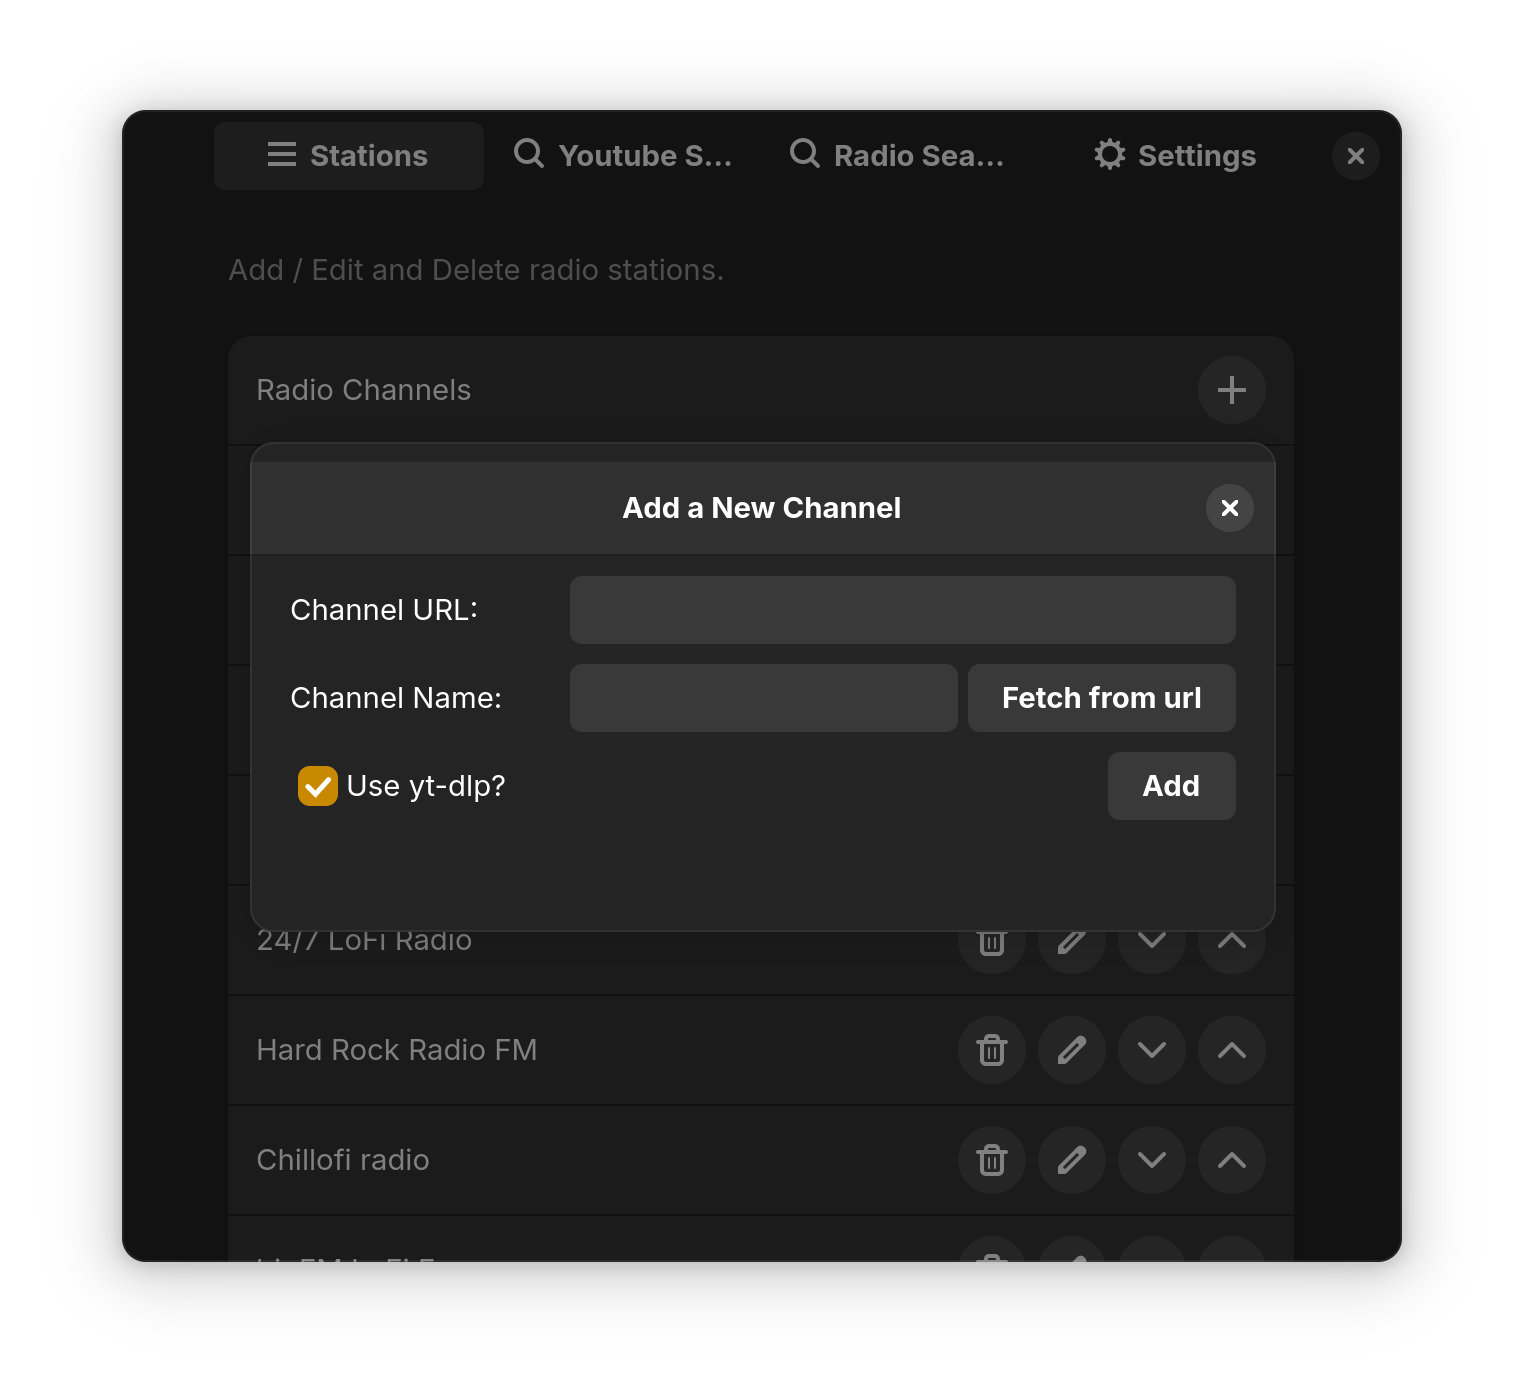
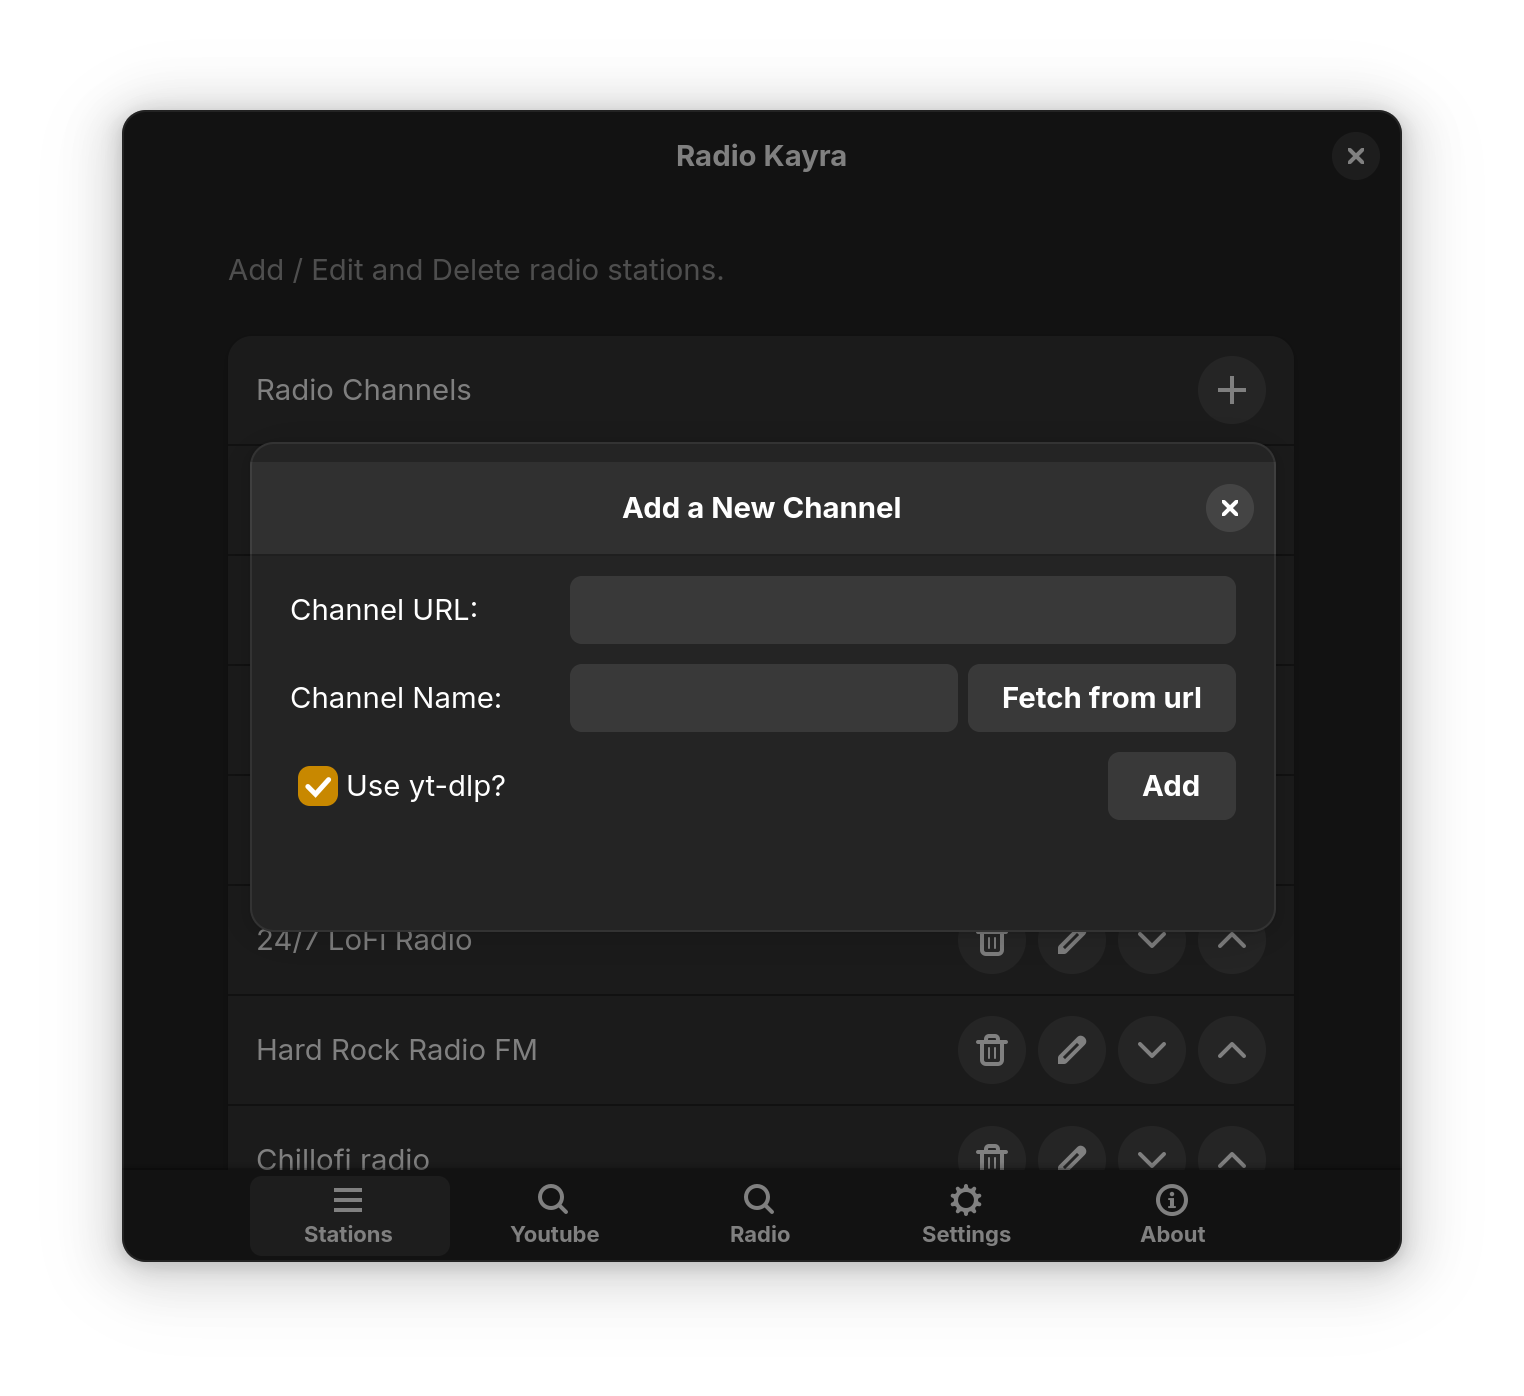
File renaming

diff --git a/prefsaboutspage.js b/prefsaboutspage.js
@@ -1,0 +1,78 @@
+import Adw from "gi://Adw";
+import Gtk from "gi://Gtk";
+
+import * as Constants from "./constants.js";
+import { gettext as _, } from "resource:///org/gnome/Shell/Extensions/js/extensions/prefs.js";
+
+export const AboutPageHandler = class AboutPageHandler {
+    constructor(kayraPrefs) {
+        this._kayraPrefs = kayraPrefs;
+        this._window = kayraPrefs._window; 
+        this._schema = this._kayraPrefs.getSettings();     
+    }
+    clear() { 
+        this._settingGroup = null;
+        this._settingsPage = null;  
+        this._rows = null;
+    }
+    createPage() {
+        this._aboutPage = new Adw.PreferencesPage();
+        this._aboutPage.title = "About";        
+        this._aboutPage.icon_name = Constants.ICON_ABOUT;
+    
+        this._window.add(this._aboutPage);
+        this._rows = [];        
+                
+        this.about = new Adw.PreferencesGroup({ title: _('Radio Kayra v2.0\nA foss hobby project by Ayhan Avcı (2024-2025)'), description: _("Mid clicking the radio icon toggles play / stop.\nDon't forget to install yt-dlp &amp; gstreamer. Links at the bottom. Enjoy!")});
+        this._aboutPage.add(this.about);        
+                                                       
+        this._urlsGroup = new Adw.PreferencesGroup({ title: _('Links')});        
+
+        let row = new Adw.ActionRow();
+        row.title = _("Project");
+        let newLink = new Gtk.LinkButton({
+          valign: Gtk.Align.CENTER,
+          label: "https://github.com/ayhanavci/radiokayra",
+          focusable: 1,
+          uri: "https://github.com/ayhanavci/radiokayra"
+        });        
+        row.add_suffix(newLink);        
+        this._urlsGroup.add(row); 
+        
+        row = new Adw.ActionRow();
+        row.title = _("Extension");
+        newLink = new Gtk.LinkButton({
+          valign: Gtk.Align.CENTER,
+          label: "https://extensions.gnome.org/extension/7649/radio-kayra/",
+          focusable: 1,
+          uri: "https://extensions.gnome.org/extension/7649/radio-kayra/"
+        });        
+        row.add_suffix(newLink);        
+        this._urlsGroup.add(row); 
+
+        row = new Adw.ActionRow();
+        row.title = _("Yt-dlp");
+        newLink = new Gtk.LinkButton({
+          valign: Gtk.Align.CENTER,
+          label: "https://github.com/yt-dlp/yt-dlp/wiki/Installation",
+          focusable: 1,
+          uri: "https://github.com/yt-dlp/yt-dlp/wiki/Installation"
+        });        
+        row.add_suffix(newLink);        
+        this._urlsGroup.add(row); 
+        
+        row = new Adw.ActionRow();
+        row.title = _("GStreamer");
+        newLink = new Gtk.LinkButton({
+          valign: Gtk.Align.CENTER,
+          label: "https://gstreamer.freedesktop.org/download/#linux",
+          focusable: 1,
+          uri: "https://gstreamer.freedesktop.org/download/#linux"
+        });        
+        row.add_suffix(newLink);        
+        this._urlsGroup.add(row);         
+
+        this._aboutPage.add(this._urlsGroup);
+      }           
+ 
+}

diff --git a/prefssettingsspage.js b/prefssettingsspage.js
@@ -17,17 +17,14 @@ export const SettingsPageHandler = class SettingsPageHandler {
         this._settingsPage = null;  
         this._rows = null;
     }
-    createSettingsPage() {
+    createPage() {
         this._settingsPage = new Adw.PreferencesPage();
         this._settingsPage.title = "Settings";        
         this._settingsPage.icon_name = Constants.ICON_SETTINGS;
     
         this._window.add(this._settingsPage);
         this._rows = [];        
-                
-        this.asd = new Adw.PreferencesGroup({ title: _('Radio Kayra v2.0. A foss hobby project by Ayhan Avcı (2024-2025)'), description: _("Mid click toggles play / stop.\nDon't forget to install yt-dlp &amp; gstreamer. Links at the bottom. Enjoy!")});
-        this._settingsPage.add(this.asd);        
-        
+
         //Settings
         this._settingsGroup = new Adw.PreferencesGroup();
         
@@ -82,53 +79,7 @@ export const SettingsPageHandler = class SettingsPageHandler {
 
         this._settingsPage.add(this._settingsGroup);                
 
-        this._urlsGroup = new Adw.PreferencesGroup({ title: _('Links')});        
-
-        let row = new Adw.ActionRow();
-        row.title = _("Project");
-        let newLink = new Gtk.LinkButton({
-          valign: Gtk.Align.CENTER,
-          label: "https://github.com/ayhanavci/radiokayra",
-          focusable: 1,
-          uri: "https://github.com/ayhanavci/radiokayra"
-        });        
-        row.add_suffix(newLink);        
-        this._urlsGroup.add(row); 
         
-        row = new Adw.ActionRow();
-        row.title = _("Extension");
-        newLink = new Gtk.LinkButton({
-          valign: Gtk.Align.CENTER,
-          label: "https://extensions.gnome.org/extension/7649/radio-kayra/",
-          focusable: 1,
-          uri: "https://extensions.gnome.org/extension/7649/radio-kayra/"
-        });        
-        row.add_suffix(newLink);        
-        this._urlsGroup.add(row); 
-
-        row = new Adw.ActionRow();
-        row.title = _("Yt-dlp");
-        newLink = new Gtk.LinkButton({
-          valign: Gtk.Align.CENTER,
-          label: "https://github.com/yt-dlp/yt-dlp/wiki/Installation",
-          focusable: 1,
-          uri: "https://github.com/yt-dlp/yt-dlp/wiki/Installation"
-        });        
-        row.add_suffix(newLink);        
-        this._urlsGroup.add(row); 
-        
-        row = new Adw.ActionRow();
-        row.title = _("GStreamer");
-        newLink = new Gtk.LinkButton({
-          valign: Gtk.Align.CENTER,
-          label: "https://gstreamer.freedesktop.org/download/#linux",
-          focusable: 1,
-          uri: "https://gstreamer.freedesktop.org/download/#linux"
-        });        
-        row.add_suffix(newLink);        
-        this._urlsGroup.add(row);         
-
-        this._settingsPage.add(this._urlsGroup);
       }           
  
 }

diff --git a/prefs.js b/prefs.js
@@ -1,10 +1,11 @@
 import Gio from "gi://Gio";
 
 import * as Utils from "./utils.js";
-import * as SearchRadioPageHandler from "./searchradio.js";
-import * as SearchYoutubePageHandler from "./searchyoutube.js";
-import * as StationsPageHandler from "./stationspage.js";
-import * as SettingsPageHandler from "./settingsspage.js";
+import * as SearchRadioPageHandler from "./prefssearchradio.js";
+import * as SearchYoutubePageHandler from "./prefssearchyoutube.js";
+import * as StationsPageHandler from "./prefsstationspage.js";
+import * as SettingsPageHandler from "./prefssettingsspage.js";
+import * as AboutPageHandler from "./prefsaboutspage.js";
 import * as Constants from "./constants.js";
 
 import { ExtensionPreferences, gettext as _, } from "resource:///org/gnome/Shell/Extensions/js/extensions/prefs.js";
@@ -21,19 +22,23 @@ export default class RadioKayraPreferences extends ExtensionPreferences {
     
     //Stations
     this._stationsPageHandler = new StationsPageHandler.StationsPageHandler(this);
-    this._stationsPageHandler.createStationsPage();
+    this._stationsPageHandler.createPage();
     
     //Youtube Search
     this._searchYoutubePageHandler = new SearchYoutubePageHandler.SearchYoutubePageHandler(this);
-    this._searchYoutubePageHandler.createSearchPage();
+    this._searchYoutubePageHandler.createPage();
     
     //Radio Search
     this._searchRadioPageHandler = new SearchRadioPageHandler.SearchRadioPageHandler(this);
-    this._searchRadioPageHandler.createSearchPage();    
+    this._searchRadioPageHandler.createPage();    
 
-    //Stations
+    //Settings
     this._settingsPageHandler = new SettingsPageHandler.SettingsPageHandler(this);
-    this._settingsPageHandler.createSettingsPage();
+    this._settingsPageHandler.createPage();
+
+    //About
+    this._aboutPageHandler = new AboutPageHandler.AboutPageHandler(this);
+    this._aboutPageHandler.createPage();
 
     window.connect("close-request", () => {      
       if (this._channelsChanged) {

diff --git a/prefssearchradio.js b/prefssearchradio.js
@@ -21,9 +21,9 @@ export const SearchRadioPageHandler = class ChannelInfo {
     clear() { 
         this._httpSession = null; 
     }
-    createSearchPage() {
+    createPage() {
         this._searchPage = new Adw.PreferencesPage();
-        this._searchPage.title = _("Radio Search");
+        this._searchPage.title = _("Radio");
         this._searchPage.icon_name = Constants.ICON_RADIO_SEARCH_PAGE;
         this._window.add(this._searchPage);
 

diff --git a/prefssearchyoutube.js b/prefssearchyoutube.js
@@ -16,9 +16,9 @@ export const SearchYoutubePageHandler = class ChannelInfo {
     clear() {
         
     }
-    createSearchPage() {
+    createPage() {
         this.searchPage = new Adw.PreferencesPage();
-        this.searchPage.title = _("Youtube Search");
+        this.searchPage.title = _("Youtube");
         this.searchPage.icon_name = Constants.ICON_YOUTUBE_SEARCH_PAGE;
         this.window.add(this.searchPage);
 

diff --git a/constants.js b/constants.js
@@ -55,6 +55,7 @@ export const ICON_SETTINGS = "emblem-system-symbolic";
 export const ICON_STATIONS_PAGE = "open-menu-symbolic";
 export const ICON_DELETE_CHANNEL = "user-trash-symbolic";
 export const ICON_EDIT_CHANNEL = "document-edit-symbolic";
+export const ICON_ABOUT = "help-about-symbolic";
 
 export const LOG_PREFIX_CHANNELS = "Channels";
 export const LOG_FAILED_TO_LOAD_JSON = "Failed to load channels.json.";

diff --git a/prefsstationspage.js b/prefsstationspage.js
@@ -19,7 +19,7 @@ export const StationsPageHandler = class StationsPageHandler {
         this._stationsPage = null;  
         this._rows = null;
     }
-    createStationsPage() {
+    createPage() {
         this._stationsPage = new Adw.PreferencesPage();
         this._stationsPage.title = "Stations";
         this._stationsPage.description = _("Add / Edit and Delete radio stations.");
